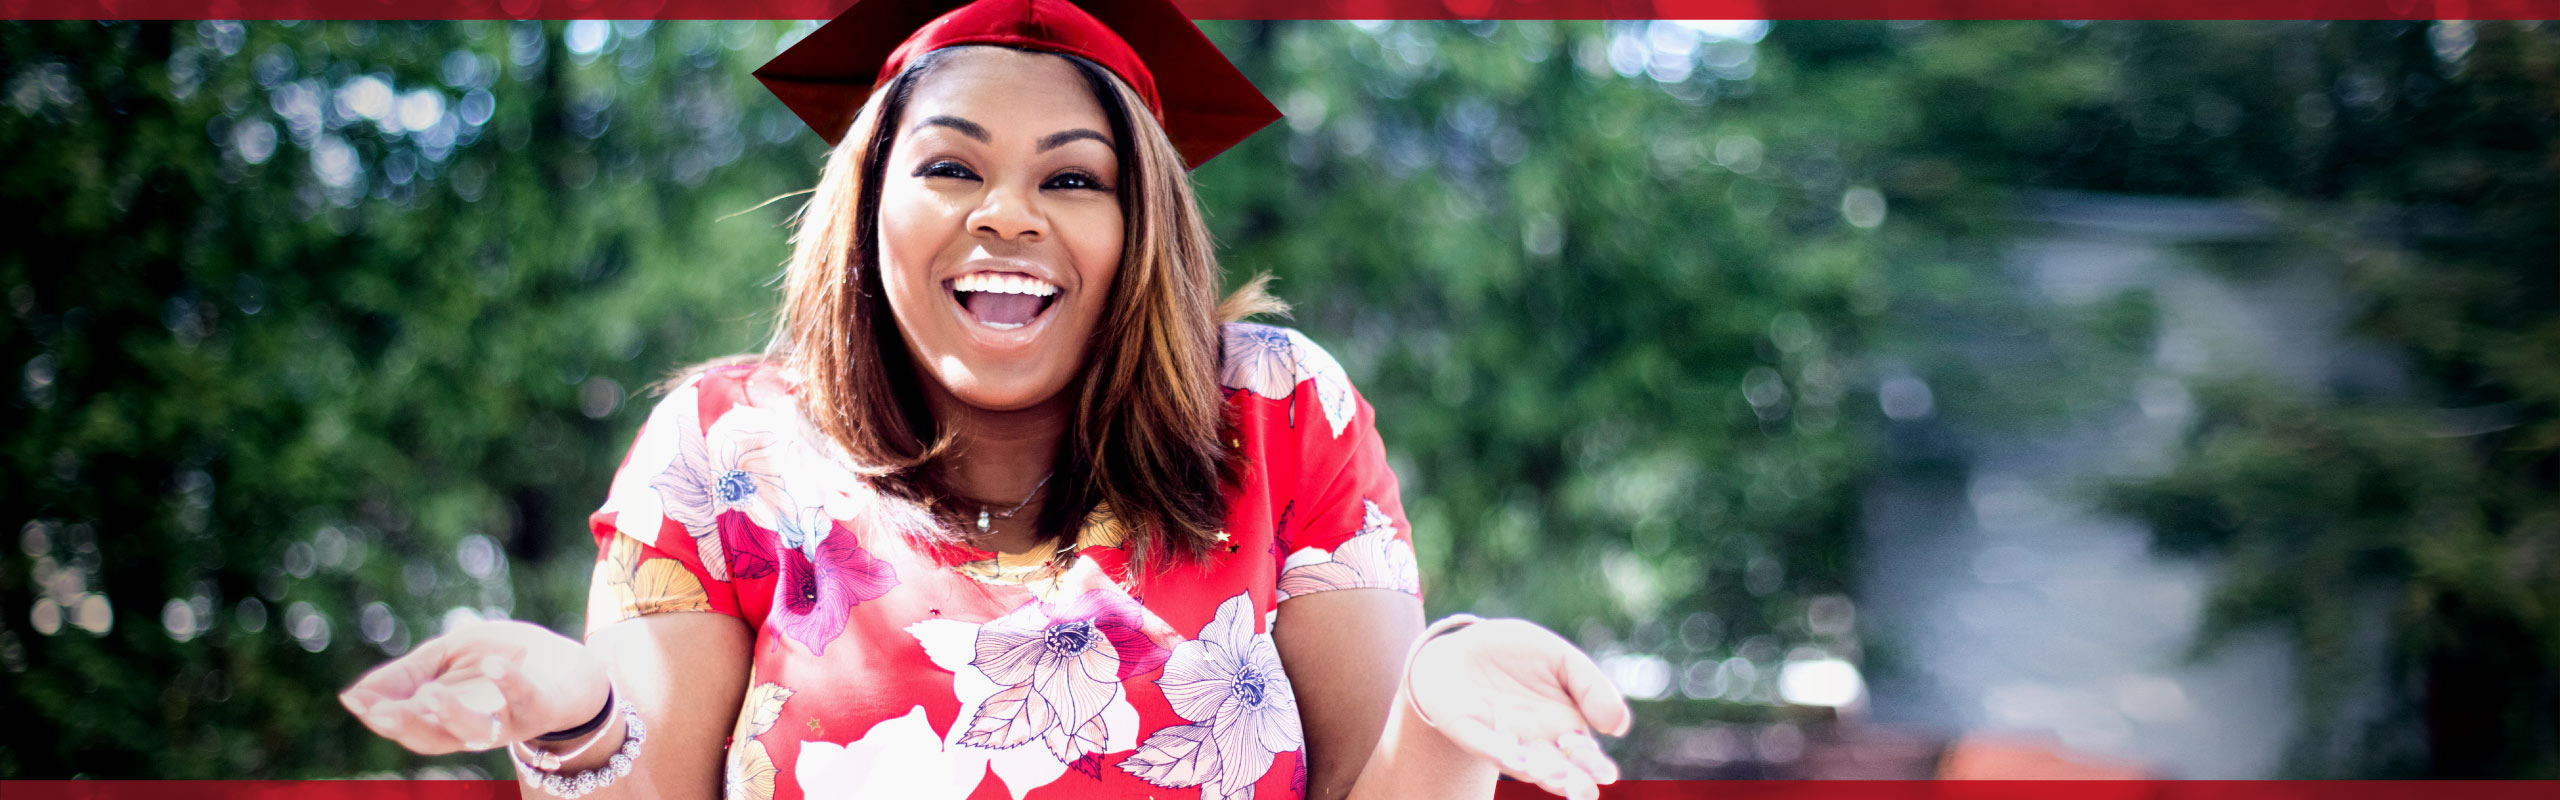
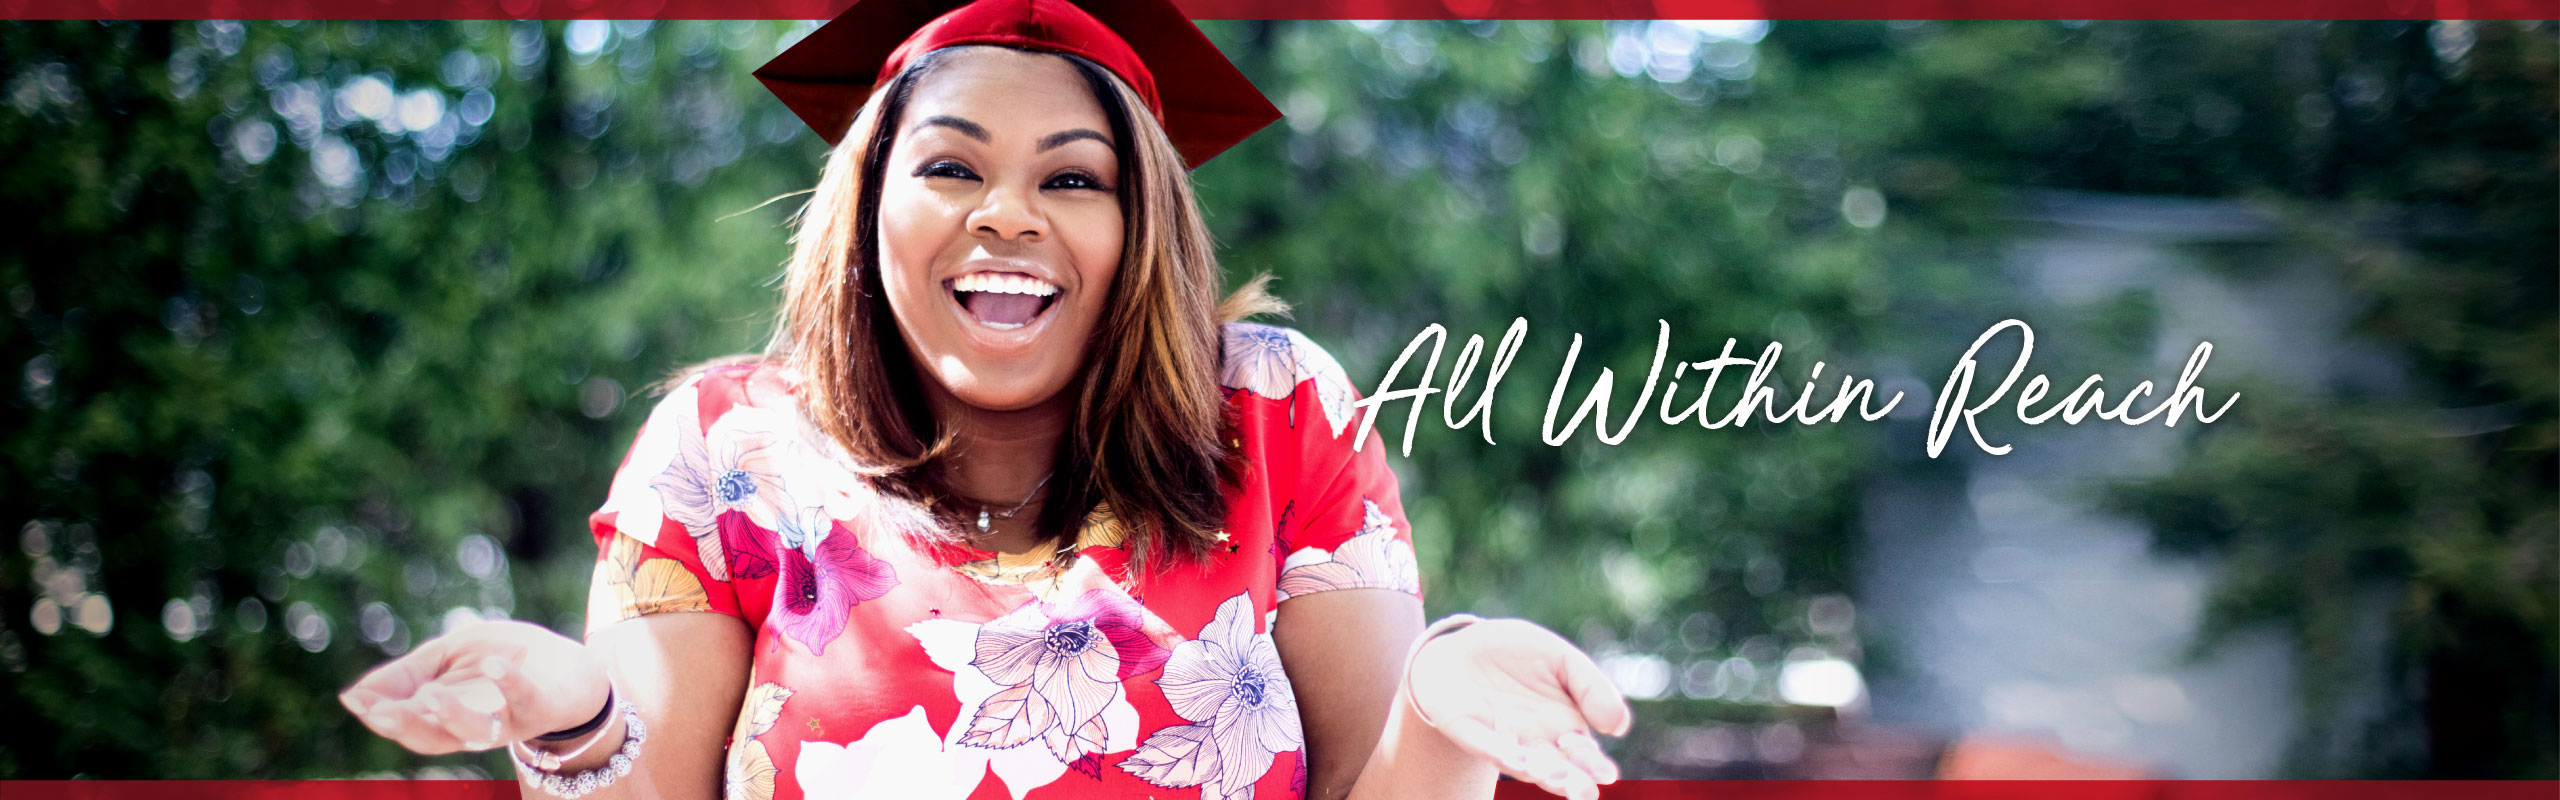
replaced images with headline and capped list

Changed region(s): [[0.5, 0.4062, 0.875, 0.5625]]

diff --git a/app/sass/_modules.scss b/app/sass/_modules.scss
@@ -19,6 +19,11 @@
 		display: none;
 	}
 }
+.phone-link {
+	&:hover {
+		text-decoration: underline;
+	}
+}
 .phone-icon {
 	width: 2.25rem;
 	height: 2.25rem;
@@ -100,90 +105,3 @@
       transition-delay: .5s, 0s, 0s, 0s;
     }
 }
-/*.accordion {
-    display: block;
-    position: relative;
-    width: 100%;
-    padding: 16px 2.5em 14px 0;
-    clear: both;
-    &:after {
-        display: table;
-        clear: both;
-        content: '';
-    }
-}
-.accordion-toggle {
-    position: absolute;
-    top: 0;
-    left: 0;
-    cursor: pointer;
-    width: 100%;
-    height: 100%;
-    margin: 0;
-    z-index: 1;
-    opacity: 0;
-    visibility: visible;
-    &:checked {
-    	~ .collapse {
-	        max-height: 2000px;
-	    }
-	    ~ .plus-icon {
-	        top: 27px;
-	        &:before,
-	        &:after {
-	        	//background-color: $bright-blue;
-	        }
-	        &:before {
-	        	transform: translate(-50%, -50%) rotate(-135deg);
-	        }
-	        &:after {
-	        	transform: translate(-50%, -50%) rotate(135deg);
-	        }
-	    }
-    }
-}
-.collapse {
-    display: block;
-    position: relative;
-    z-index: 2;
-    width: 100%;
-    max-height: 0;
-    margin-top: 0;
-    overflow: hidden;
-    transition: max-height 0.5s;
-    &:after {
-        display: table;
-        clear: both;
-        content: '';
-    }
-    p {
-        margin-top: 8px;
-    }
-}
-.plus-icon {
-	position: absolute;
-	right: 10px;
-	top: 50%;
-    display: inline-block;
-    width: 24px;
-    height: 24px;
-    vertical-align: middle;
-    transform: translateY(-50%);
-    &:after, 
-    &:before {
-        content: '';
-        display: block;
-        position: absolute;
-        left: 50%;
-        top: 50%;
-        width: 15px;
-        height: 2px;
-        background-color: #666;
-        border-radius: 2px;
-        transform: translate(-50%, -50%);
-        transition: transform 0.4s;
-    }
-    &:after {
-        transform: translate(-50%, -50%) rotate(-90deg);
-    }
-}*/

diff --git a/app/index.html b/app/index.html
@@ -102,11 +102,11 @@
                         <p>Through our 100% online program, students have the flexibility they need to complete their bachelor's degree—on their own time and terms. Because of the freedom it offers, this program is ideal for working professionals and full-time parents. Each curriculum is completely unique and tailored to fit the student’s individual needs.</p>
                         <p>Working with program mentors, you will have the opportunity to:</p>
                         <ul>
-                            <li>customize your personal course path.</li>
-                            <li>take classes from a wide range of disciplines.</li>
-                            <li>complete concentrations in Arts & Humanities, Behavioral Science or Applied Sciences.</li>
-                            <li>attain education milestones that speak to your specific interests and goals.</li>
-                            <li>develop professional skills to excel in your career.</li>
+                            <li>Customize your personal course path.</li>
+                            <li>Take classes from a wide range of disciplines.</li>
+                            <li>Complete concentrations in Arts & Humanities, Behavioral Science or Applied Sciences.</li>
+                            <li>Attain education milestones that speak to your specific interests and goals.</li>
+                            <li>Develop professional skills to excel in your career.</li>
                         </ul>
                     </div>
                     <h2 class="js-accordion__header">Value <span class="plus-icon"></span></h2>
